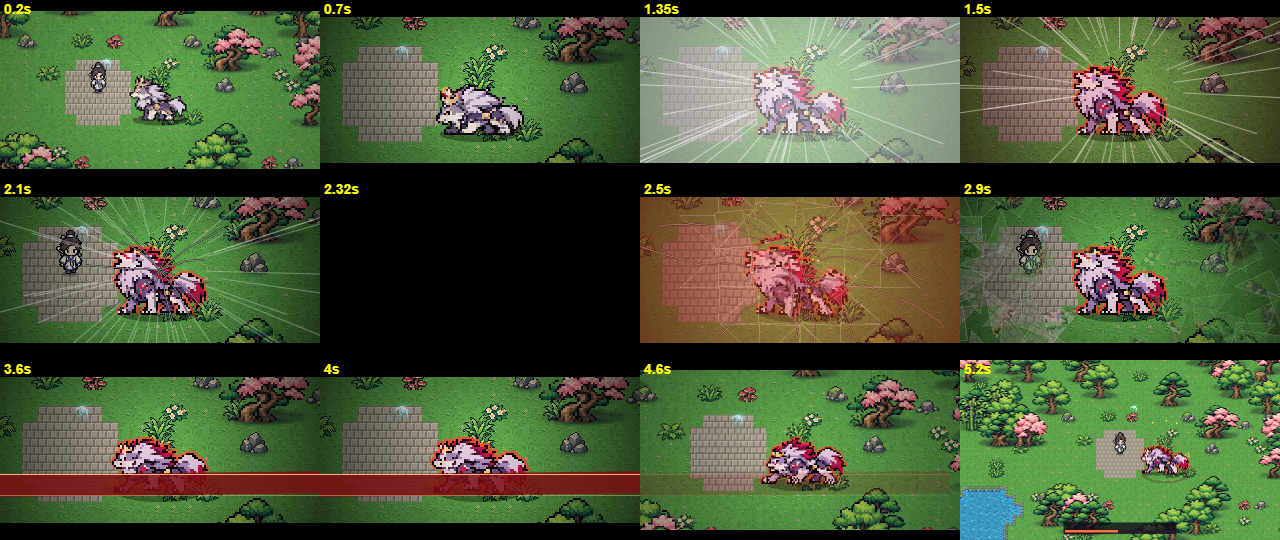
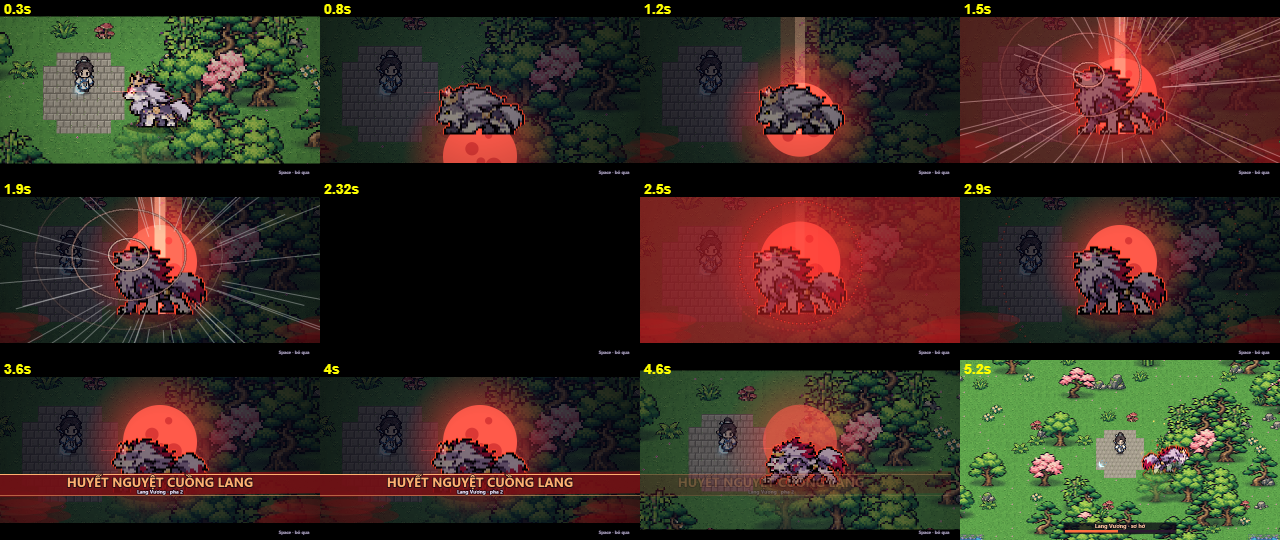
Cutscene pha 2 doi chu de dem - huyet nguyet - linh hon (vo kinh chi giu o cutscene Yeu Vuong xuat hien): Lang Vuong dem buong, trang mau dang, cot nguyet quang do, suong do, hu -> trang dap; Ma Quan 'Van Hon Quy Tong': linh hon bong ma xoay vao loi nguc -> van hon bao phat, bong Ma Quan truoc trang

diff --git a/src/render/render.js b/src/render/render.js
@@ -1631,7 +1631,7 @@ function drawWraithScreen(ctx, c, vis, time) {
 
 // ---------- (24/11) cutscene biến hình pha 2 (storyboard ChatGPT) ----------
 const P2_SHEET = (vis, n) => (n.startsWith('MINI2') ? vis.bossMini2 : n.startsWith('MINI_') ? vis.bosses : n.startsWith('FINAL2') ? vis.bossFinal2 : vis.bossFinal);
-let P2_EYES = [], P2_ZOOM = null, P2_CAM = { camX: 0, camY: 0 }, ZBUF = null, P2BUF = null;
+let P2_EYES = [], P2_ZOOM = null, P2_CAM = { camX: 0, camY: 0 }, ZBUF = null;
 const p2Map = (wx, wy) => {   // thế giới -> màn hình (tính cả zoom cận)
   const sx = wx - P2_CAM.camX, sy = wy - P2_CAM.camY;
   return P2_ZOOM ? [(sx - P2_ZOOM.sx) * P2_ZOOM.z, (sy - P2_ZOOM.sy) * P2_ZOOM.z] : [sx, sy];
@@ -1679,15 +1679,83 @@ function zoomScreen(ctx, c, camX, camY) {
   ctx.restore();
   return { sx, sy, z };
 }
+// linh hồn bóng ma: đầu tròn sáng lạnh, mắt rỗng, đuôi khói kéo theo hướng ngược chiều bay (dx, dy)
+function drawSoul(ctx, x, y, s, a, dx, dy) {
+  if (a <= 0) return;
+  const l = Math.hypot(dx, dy) || 1; dx /= l; dy /= l;
+  for (let j = 4; j >= 1; j--) { ctx.globalAlpha = a * (0.55 - j * 0.1); ctx.fillStyle = '#9ad8ff'; ctx.beginPath(); ctx.arc(x - dx * j * 3.2 * s, y - dy * j * 3.2 * s, (4.2 - j * 0.7) * s, 0, 6.283); ctx.fill(); }
+  ctx.globalAlpha = a * 0.3; ctx.fillStyle = '#bfe8ff'; ctx.beginPath(); ctx.arc(x, y, 7 * s, 0, 6.283); ctx.fill();
+  ctx.globalAlpha = a; ctx.fillStyle = '#eef8ff'; ctx.beginPath(); ctx.ellipse(x, y, 4 * s, 4.6 * s, 0, 0, 6.283); ctx.fill();
+  ctx.fillStyle = '#1a2440'; ctx.fillRect(Math.round(x - 2 * s), Math.round(y - s), Math.max(1, Math.round(s)), Math.max(2, Math.round(1.6 * s)));
+  ctx.fillRect(Math.round(x + s), Math.round(y - s), Math.max(1, Math.round(s)), Math.max(2, Math.round(1.6 * s)));
+  ctx.globalAlpha = 1;
+}
+// Lớp màn hình cutscene pha 2: đêm buông, trăng máu dâng sau lưng boss, nguyệt quang/sương đỏ (sói) hoặc linh hồn hút vào rồi bạo phát (ma),
+// boss vẽ lại ở trên thành bóng đen viền đỏ trước trăng, mắt đỏ, vệt tốc độ, chớp, chữ tên.
 function drawP2Screen(ctx, c, vis, time) {
-  const K = BOSS.DRAW_SCALE, [ox, oy] = p2Map(c.bx, c.by - 22 * K), fin = c.boss === 'FINAL';
+  const K = BOSS.DRAW_SCALE, z = P2_ZOOM ? P2_ZOOM.z : 1, [ox, oy] = p2Map(c.bx, c.by - 22 * K), [fx, fy] = p2Map(c.bx, c.by), fin = c.boss === 'FINAL';
   if (c.desat > 0) { ctx.globalCompositeOperation = 'saturation'; ctx.globalAlpha = c.desat; ctx.fillStyle = '#808080'; ctx.fillRect(0, 0, W, H); ctx.globalCompositeOperation = 'source-over'; ctx.globalAlpha = 1; }
-  if (c.vign > 0) {   // tối viền, sáng quanh boss
-    const g = ctx.createRadialGradient(ox, oy, 50, ox, oy, W * 0.62); g.addColorStop(0, 'rgba(0,0,0,0)'); g.addColorStop(1, 'rgba(0,0,0,0.9)');
+  if (c.night > 0) { ctx.globalAlpha = 0.72 * c.night; ctx.fillStyle = '#05071a'; ctx.fillRect(0, 0, W, H); ctx.globalAlpha = 1; }   // đêm buông
+  if (c.moon > 0 && c.moonFade > 0) {   // trăng máu dâng lên sau lưng boss
+    const pul = c.pulse >= 0 ? Math.sin(Math.PI * Math.min(1, c.pulse * 2)) : 0, R = c.moonR * (1 + 0.12 * pul), mx = ox, my = oy + c.moonY + (1 - c.moon) * 190;
+    const g = ctx.createRadialGradient(mx, my, R * 0.8, mx, my, R * 2.1); g.addColorStop(0, 'rgba(255,60,50,0.55)'); g.addColorStop(1, 'rgba(255,40,40,0)');
+    ctx.globalAlpha = c.moonFade; ctx.fillStyle = g; ctx.fillRect(mx - R * 2.2, my - R * 2.2, R * 4.4, R * 4.4);
+    ctx.fillStyle = c.moonCol[0]; ctx.beginPath(); ctx.arc(mx, my, R, 0, 6.283); ctx.fill();
+    ctx.fillStyle = c.moonCol[1];
+    for (const [a, d, r] of [[0.6, 0.45, 0.22], [2.2, 0.55, 0.15], [3.9, 0.3, 0.18], [5.1, 0.62, 0.1], [1.4, 0.15, 0.12]]) { ctx.globalAlpha = 0.45 * c.moonFade; ctx.beginPath(); ctx.arc(mx + Math.cos(a) * d * R, my + Math.sin(a) * d * R, r * R, 0, 6.283); ctx.fill(); }
+    if (c.pulse >= 0 && c.pulse < 1) { ctx.globalAlpha = 0.9 * (1 - c.pulse) * c.moonFade; tgRing(ctx, mx, my, R + c.pulse * 300, 96, fin ? '#ff6ab0' : '#ff4a3a', 3, 1); }   // nguyệt quang lan ra
+    ctx.globalAlpha = 1;
+  }
+  if (c.beam >= 0) {   // cột nguyệt quang đỏ chiếu xuống con sói
+    const a = Math.sin(Math.PI * c.beam), w = Math.round(34 * z * 0.5 + 10 * a);
+    ctx.globalCompositeOperation = 'lighter';
+    ctx.globalAlpha = 0.35 * a; ctx.fillStyle = '#ff3a2a'; ctx.fillRect(Math.round(fx - w), 0, w * 2, Math.round(fy));
+    ctx.globalAlpha = 0.45 * a; ctx.fillStyle = '#ffc0a0'; ctx.fillRect(Math.round(fx - w / 4), 0, Math.max(2, Math.round(w / 2)), Math.round(fy));
+    ctx.globalCompositeOperation = 'source-over'; ctx.globalAlpha = 1;
+  }
+  if (c.fog >= 0) {   // sương đỏ bò vào từ hai mép dưới
+    const a = Math.min(1, c.fog * 5) * Math.min(1, (1 - c.fog) * 6);
+    for (let i = 0; i < 14; i++) { const side = i % 2 ? 1 : -1, x = W / 2 + side * (W * 0.62 - c.fog * 120 - h01(i) * 60) + Math.sin(time + i) * 10, y = H - 20 - h01(i + 4) * 70;
+      ctx.globalAlpha = 0.28 * a; ctx.fillStyle = i % 3 ? '#8a0a14' : '#c02a2a'; ctx.beginPath(); ctx.ellipse(x, y, 70, 16, 0, 0, 6.283); ctx.fill(); }
+    ctx.globalAlpha = 1;
+  }
+  if (c.souls >= 0) {   // linh hồn trồi lên khắp nơi, xoáy vào lõi ngực Ma Quân và bị hút mất
+    let absorbed = 0;
+    for (let i = 0; i < 22; i++) {
+      const u = Math.max(0, Math.min(1, (c.soulsT - h01(i + 21) * 0.7) / 1.1)); if (u <= 0) continue;
+      const a0 = h01(i) * 6.283, R0 = 190 + h01(i + 3) * 120, e = u * u, r = R0 * (1 - e), ang = a0 + u * 2.6;
+      const x = ox + Math.cos(ang) * r, y = oy + Math.sin(ang) * r * 0.7 + 30 * (1 - u) * (1 - u);
+      if (u >= 1) { absorbed++; continue; }
+      drawSoul(ctx, x, y, 1.5, Math.min(1, u * 5) * (u > 0.85 ? (1 - u) / 0.15 : 1), ox - x, oy - y);
+    }
+    if (absorbed) { ctx.globalCompositeOperation = 'lighter'; ctx.globalAlpha = Math.min(0.6, absorbed * 0.04); ctx.fillStyle = '#ff6ab0'; ctx.beginPath(); ctx.arc(ox, oy, 10 + absorbed, 0, 6.283); ctx.fill(); ctx.globalCompositeOperation = 'source-over'; ctx.globalAlpha = 1; }
+  }
+  // boss vẽ lại trên lớp đêm/trăng: bóng đen viền đỏ trước vầng trăng
+  const sh = P2_SHEET(vis, c.pose) || vis.bosses;
+  if (sh && sh.meta.frames[c.pose] && (c.night > 0 || c.moon > 0)) {
+    const flip = c.boss === 'MINI' ? c.faceLeft : false, kk = K * z, rim = sh.rage || sh.glow;
+    ctx.globalAlpha = 0.85 * Math.max(c.night, c.moon * c.moonFade);
+    for (const [dx, dy] of [[-2, 0], [2, 0], [0, -2], [-1, -1], [1, -1]]) sheetFrame(ctx, sh, c.pose, fx + dx, fy + dy, flip, rim, kk);
+    ctx.globalAlpha = 1; ctx.filter = 'brightness(' + (0.55 + 0.45 * (1 - c.night)).toFixed(2) + ')';
+    sheetFrame(ctx, sh, c.pose, fx, fy, flip, sh.img, kk); ctx.filter = 'none';
+  }
+  if (c.burst >= 0) {   // vạn hồn bạo phát: linh hồn tỏa ra mọi hướng
+    for (let i = 0; i < 26; i++) {
+      const a = h01(i + 50) * 6.283, e = 1 - (1 - c.burst) * (1 - c.burst), r = 12 + e * (260 + h01(i + 7) * 140);
+      drawSoul(ctx, ox + Math.cos(a) * r, oy + Math.sin(a) * r * 0.75, 1.4 + c.burst, 1 - c.burst, Math.cos(a), Math.sin(a) * 0.75);
+    }
+  }
+  if (c.rings >= 0) {   // tiếng hú: vòng sóng âm từ đầu sói lan về phía trăng
+    const hx = fx + (c.faceLeft ? -1 : 1) * 16 * K * z, hy = fy - 30 * K * z;
+    for (let i = 0; i < 3; i++) { const k = (c.rings * 2.4 + i / 3) % 1, r = 10 + k * 220; ctx.globalAlpha = 0.8 * (1 - k); tgRing(ctx, hx, hy, r, Math.round(r * 2.2), '#ffd0c0', 3, 0.8); }
+    ctx.globalAlpha = 1;
+  }
+  if (c.vign > 0) {
+    const g = ctx.createRadialGradient(ox, oy, 70, ox, oy, W * 0.66); g.addColorStop(0, 'rgba(0,0,0,0)'); g.addColorStop(1, 'rgba(0,0,0,0.9)');
     ctx.globalAlpha = c.vign; ctx.fillStyle = g; ctx.fillRect(0, 0, W, H); ctx.globalAlpha = 1;
   }
   if (c.eyes > 0) {   // mắt đỏ rực + vệt sáng ngang kiểu anime
-    const z = P2_ZOOM ? P2_ZOOM.z : 1, pul = 0.7 + 0.3 * Math.sin(time * 9);
+    const pul = 0.7 + 0.3 * Math.sin(time * 9);
     ctx.globalCompositeOperation = 'lighter';
     for (const [wx, wy] of P2_EYES) {
       const [ex, ey] = p2Map(wx, wy);
@@ -1697,39 +1765,12 @@ function drawP2Screen(ctx, c, vis, time) {
     }
     ctx.globalCompositeOperation = 'source-over'; ctx.globalAlpha = 1;
   }
-  if (c.crack > 0 && c.shatter < 0) {   // vết nứt lan ra từ thân boss (ma: từ lõi ngực)
-    for (const pts of CRACKS) {
-      const n = Math.max(1, Math.ceil(c.crack * (pts.length - 1)));
-      for (const [col, wd] of [[fin ? '#ff3a8a' : '#000', 3], ['#fff', 1]]) {
-        ctx.strokeStyle = col; ctx.lineWidth = wd; ctx.globalAlpha = 0.9; ctx.beginPath(); ctx.moveTo(ox, oy);
-        for (let i = 1; i <= n; i++) ctx.lineTo(ox + pts[i][0], oy + pts[i][1]);
-        ctx.stroke();
-      }
-    }
-    ctx.globalAlpha = 1;
-  }
-  const cv = ctx.canvas, r = cv.width / W;
-  if (c.shatter < 0) {   // lưu khung hình hiện tại: lúc vỡ kính, mảnh của khung này bay đi để lộ ngoại hình mới
-    if (!P2BUF) P2BUF = document.createElement('canvas');
-    if (P2BUF.width !== cv.width || P2BUF.height !== cv.height) { P2BUF.width = cv.width; P2BUF.height = cv.height; }
-    const pg = P2BUF.getContext('2d'); pg.setTransform(1, 0, 0, 1, 0, 0); pg.clearRect(0, 0, cv.width, cv.height); pg.drawImage(cv, 0, 0);
-  } else if (P2BUF) {
-    for (const s of SHARDS) {
-      const k = Math.max(0, c.shatter - s.delay * 0.6);
-      const dx = s.vx * k * 1.4, dy = s.vy * k * 1.4 + 700 * k * k;
-      ctx.save(); ctx.globalAlpha = Math.max(0, 1 - k * 1.4);
-      ctx.translate(s.cx + dx, s.cy + dy); ctx.rotate(s.rot * k); ctx.translate(-s.cx, -s.cy);
-      ctx.beginPath(); ctx.moveTo(...s.p[0]); ctx.lineTo(...s.p[1]); ctx.lineTo(...s.p[2]); ctx.closePath(); ctx.clip();
-      ctx.drawImage(P2BUF, 0, 0, cv.width, cv.height, 0, 0, W, H); if (k > 0) { ctx.strokeStyle = fin ? '#ffc8f0' : '#fff'; ctx.lineWidth = 1; ctx.stroke(); }
-      ctx.restore();
-    }
-  }
   if (c.lines >= 0) {   // vệt tốc độ: tỏa ra (sói hú) / hội tụ vào ngực (ma)
     const seed = Math.floor(time * 20), out = c.linesDir === 'out';
     ctx.fillStyle = '#fff';
     for (let i = 0; i < 46; i++) {
       const a = h01(seed * 50 + i) * 6.283, r0 = 70 + h01(seed * 31 + i) * 60, len = 120 + h01(seed * 17 + i) * 260;
-      ctx.globalAlpha = (out ? 0.55 : 0.45) * (1 - c.lines * 0.5);
+      ctx.globalAlpha = (out ? 0.5 : 0.4) * (1 - c.lines * 0.5);
       ctx.save(); ctx.translate(ox, oy); ctx.rotate(a); ctx.fillRect(r0, -1, len, out ? 2 : 1); ctx.restore();
     }
     ctx.globalAlpha = 1;

diff --git a/src/core/config.js b/src/core/config.js
@@ -479,29 +479,31 @@ export const GACHA = {
   HISTORY: 50,
 };
 
-// (24/11) Cutscene biến hình chuyển pha 2 (storyboard ChatGPT đề xuất) — trận đứng yên như cutscene xuất hiện; lần 2 bỏ qua được.
-// T: IN zoom ×ZOOM xong · SWAP đổi sang sprite pha 2 (che bằng chớp) · BLACK màn đen 0,08 s (sói) · CRACK [đầu, cuối] vết nứt lan
-// · SHATTER vỡ kính (mảnh của khung trước bay đi, lộ khung sau) · TITLE chữ tên lớn · OUT zoom về ×1, về trận.
-// POSES: [mốc, tên khung] (MINI_* / MINI2_* / FINAL_* / FINAL2_*). FLASH: [mốc, dài, màu, độ đậm]. LINES: vệt tốc độ [đầu, cuối, 'out'|'in'].
+// (24/11) Cutscene biến hình chuyển pha 2 — trận đứng yên như cutscene xuất hiện; lần 2 bỏ qua được (nhảy tới SKIP).
+// Người phát triển: vỡ kính chỉ giữ ở cutscene Yêu Vương xuất hiện (dùng nhiều mất ấn tượng). Pha 2 theo chủ đề ĐÊM — HUYẾT NGUYỆT — LINH HỒN:
+//   Lang Vương "Huyết Nguyệt": đêm buông, trăng máu dâng sau lưng, cột nguyệt quang đỏ chiếu xuống, sương đỏ, hú vang -> trăng đập, sóng nguyệt quang.
+//   Ma Quân "Vạn Hồn Quy Tông": đêm buông, trăng máu dâng, linh hồn bóng ma trồi lên xoáy vào lõi ngực -> vạn hồn bạo phát, bóng Ma Quân trước trăng.
+// T: IN zoom xong · NIGHT [đầu, cuối] đêm buông · MOON [đầu, cuối] trăng dâng · SWAP đổi sprite (che bằng chớp) · REVEAL lộ ngoại hình pha 2
+// · TITLE chữ tên · OUT về trận. BEAM/FOG/RINGS (sói), SOULS/BURST (ma): [đầu, cuối]. POSES: [mốc, tên khung]. FLASH: [mốc, dài, màu, độ đậm].
 CUTSCENE.MINI_P2 = {
   STYLE: 'p2', BOSS: 'MINI', TITLE: 'HUYẾT NGUYỆT CUỒNG LANG', SUB: 'Lang Vương · pha 2', TITLE_COL: '#ffb070', BAND: '#7a0f14',
-  DUR: 5.0, ZOOM: 2, VIGN: 0.85, DESAT: 0, TILT: 0, SKIP: 'SHATTER',
-  T: { IN: 0.5, SWAP: 1.3, BLACK: 2.3, CRACK: [2.0, 2.3], SHATTER: 2.38, TITLE: 3.3, OUT: 4.3 },
+  DUR: 5.0, ZOOM: 2, VIGN: 0.6, DESAT: 0, SKIP: 'REVEAL', MOON_COL: ['#e8323a', '#8a0a14'], MOON_R: 74, MOON_Y: -16,
+  T: { IN: 0.5, NIGHT: [0.1, 0.9], MOON: [0.5, 1.8], SWAP: 1.3, BLACK: 2.3, REVEAL: 2.38, TITLE: 3.3, OUT: 4.3 },
   POSES: [[0, 'MINI_walk0'], [0.5, 'MINI_atk'], [1.3, 'MINI2_howl'], [3.3, 'MINI2_walk0'], [4.4, 'MINI2_atk']],
-  FLASH: [[1.3, 0.12, '#ffffff', 0.9], [1.42, 0.1, '#ff2a2a', 0.6], [2.38, 0.25, '#ff4a2a', 0.7]],
-  LINES: [1.3, 2.3, 'out'], SMOKE: [0.5, 1.3, '#a01020'], BOLTS: null,
-  EVENTS: [[0.02, { type: 'sfx', name: 'thud' }], [0.6, { type: 'sfx', name: 'thud' }], [0.6, { type: 'shake', t: 0.5 }],
-    [1.3, { type: 'sfx', name: 'howl' }], [1.3, { type: 'shake', t: 0.9 }], [2.38, { type: 'sfx', name: 'shatter' }], [2.38, { type: 'sfx', name: 'land' }],
-    [2.38, { type: 'shake', t: 0.6 }], [2.38, { type: 'boom', r: 70, color: '#ff7a3a' }], [3.3, { type: 'sfx', name: 'bossPhase' }]],
+  FLASH: [[1.3, 0.12, '#ffffff', 0.9], [1.42, 0.1, '#ff2a2a', 0.6], [2.38, 0.3, '#ff2a2a', 0.75]],
+  LINES: [1.3, 2.3, 'out'], BEAM: [0.9, 2.6], FOG: [0.4, 4.6], RINGS: [1.3, 2.3], PULSE: 2.38, SOULS: null, BURST: null,
+  EVENTS: [[0.02, { type: 'sfx', name: 'thud' }], [0.6, { type: 'sfx', name: 'thud' }], [0.6, { type: 'shake', t: 0.4 }],
+    [1.3, { type: 'sfx', name: 'howl' }], [1.3, { type: 'shake', t: 0.9 }], [2.38, { type: 'sfx', name: 'land' }], [2.38, { type: 'sfx', name: 'rumble' }],
+    [2.38, { type: 'shake', t: 0.6 }], [2.38, { type: 'boom', r: 70, color: '#ff3a2a' }], [3.3, { type: 'sfx', name: 'bossPhase' }]],
 };
 CUTSCENE.FINAL_P2 = {
-  STYLE: 'p2', BOSS: 'FINAL', TITLE: 'HUYẾT LÔI MA QUÂN', SUB: 'Ma Ảnh Yêu Vương · chân thân', TITLE_COL: '#ff9ad6', BAND: '#3a0a4a',
-  DUR: 5.5, ZOOM: 2, VIGN: 0.85, DESAT: 0.85, TILT: 2, SKIP: 'SHATTER',
-  T: { IN: 0.6, SWAP: 1.4, BLACK: 0, CRACK: [0.6, 2.4], SHATTER: 2.4, TITLE: 3.5, OUT: 4.6 },
-  POSES: [[0, 'FINAL_walk0'], [0.6, 'FINAL_atk'], [1.4, 'FINAL2_roar'], [2.4, 'FINAL2_roar'], [3.5, 'FINAL2_atk'], [4.7, 'FINAL2_walk0']],
-  FLASH: [[1.4, 0.08, '#000000', 0.9], [1.48, 0.15, '#ff2a6a', 0.7], [2.4, 0.25, '#e070ff', 0.7]],
-  LINES: [2.4, 3.5, 'in'], SMOKE: [0.6, 1.4, '#6a24a0'], BOLTS: [3.5, 4.6],
+  STYLE: 'p2', BOSS: 'FINAL', TITLE: 'HUYẾT LÔI MA QUÂN', SUB: 'Vạn Hồn Quy Tông · chân thân', TITLE_COL: '#ff9ad6', BAND: '#3a0a4a',
+  DUR: 5.5, ZOOM: 2, VIGN: 0.6, DESAT: 0.7, SKIP: 'REVEAL', MOON_COL: ['#d8283a', '#6a0814'], MOON_R: 108, MOON_Y: -58,   // to + cao hơn: cánh Ma Quân không che hết trăng
+  T: { IN: 0.6, NIGHT: [0, 0.8], MOON: [0.5, 2.0], SWAP: 1.4, BLACK: 0, REVEAL: 2.4, TITLE: 3.5, OUT: 4.6 },
+  POSES: [[0, 'FINAL_walk0'], [0.6, 'FINAL_atk'], [1.4, 'FINAL2_roar'], [3.5, 'FINAL2_atk'], [4.7, 'FINAL2_walk0']],
+  FLASH: [[1.4, 0.08, '#000000', 0.9], [1.48, 0.18, '#ff2a4a', 0.65], [2.4, 0.25, '#ffd0f0', 0.6]],
+  LINES: [1.6, 2.4, 'in'], BEAM: null, FOG: null, RINGS: null, PULSE: 2.4, SOULS: [0.6, 2.4], BURST: [2.4, 3.6],
   EVENTS: [[0.05, { type: 'sfx', name: 'rumble' }], [0.3, { type: 'sfx', name: 'eyes' }], [0.6, { type: 'shake', t: 0.4 }],
-    [1.4, { type: 'sfx', name: 'roar' }], [1.4, { type: 'shake', t: 0.6 }], [2.4, { type: 'sfx', name: 'shatter' }], [2.4, { type: 'shake', t: 0.7 }],
-    [2.4, { type: 'boom', r: 80, color: '#e070ff' }], [3.5, { type: 'sfx', name: 'bossPhase' }]],
+    [1.4, { type: 'sfx', name: 'roar' }], [1.4, { type: 'shake', t: 0.6 }], [2.4, { type: 'sfx', name: 'bossPhase' }], [2.4, { type: 'shake', t: 0.7 }],
+    [2.4, { type: 'boom', r: 80, color: '#ff4a8a' }], [2.45, { type: 'sfx', name: 'eyes' }], [3.5, { type: 'sfx', name: 'rumble' }]],
 };

diff --git a/tests/cutscene.test.js b/tests/cutscene.test.js
@@ -137,18 +137,19 @@ test('Yêu Vương: mỗi sự kiện phát đúng 1 lần; bỏ qua (lần 2) n
 
 // ---------- (24/11) cutscene biến hình pha 2 (storyboard ChatGPT) ----------
 for (const kind of ['MINI_P2', 'FINAL_P2']) {
-  test(`${kind}: zoom cận rồi về ×1, đổi sprite pha 1 -> pha 2 đúng 1 lần (che bằng chớp), vỡ kính, chữ tên; mỗi sự kiện 1 lần`, () => {
+  test(`${kind}: zoom cận rồi về ×1, đêm buông + trăng máu, đổi sprite pha 1 -> pha 2 đúng 1 lần (che bằng chớp), chữ tên; mỗi sự kiện 1 lần`, () => {
     const S = CUTSCENE[kind], T = S.T, b1 = S.BOSS + '_', b2 = S.BOSS + '2_';
     const c = createCutscene(kind, { x: 500, y: 400 }, { x: 300, y: 380 });
     let s = cutsceneState(c);
     assert.ok(s.style === 'p2' && s.zoom === 1 && s.pose.startsWith(b1));
     const ev = [], poses = [];
-    let maxZoom = 0, sawTitle = false, sawShatter = false, swapFlash = false, prev = s;
+    let maxZoom = 0, sawTitle = false, sawMoon = false, swapFlash = false, prev = s;
     while (!c.done) {
       ev.push(...stepCutscene(c, DT)); s = cutsceneState(c);
       if (poses[poses.length - 1] !== s.pose) poses.push(s.pose);
       if (prev.pose.startsWith(b1) && s.pose.startsWith(b2)) swapFlash = !!s.flash || !!s.black;
-      maxZoom = Math.max(maxZoom, s.zoom); sawTitle ||= s.title > 0.99; sawShatter ||= s.shatter >= 0;
+      maxZoom = Math.max(maxZoom, s.zoom); sawTitle ||= s.title > 0.99; sawMoon ||= s.moon > 0.99;
+      assert.ok(s.shatter < 0 && !s.crack, '(24/11) pha 2 không dùng vỡ kính — chỉ giữ ở cutscene Yêu Vương xuất hiện');
       assert.ok(Math.abs(s.zoom - prev.zoom) < 0.1, 'zoom không giật');
       prev = s;
     }
@@ -156,15 +157,15 @@ for (const kind of ['MINI_P2', 'FINAL_P2']) {
     const swaps = poses.filter((p, i) => i && poses[i - 1].startsWith(b1) && p.startsWith(b2)).length;
     assert.equal(swaps, 1, poses.join(','));
     assert.ok(swapFlash, 'đổi sprite phải có chớp che');
-    assert.ok(sawTitle && sawShatter);
+    assert.ok(sawTitle && sawMoon, 'có trăng máu dâng + chữ tên');
     assert.ok(s.zoom === 1 && s.letter < 0.01 && s.title < 0.01 && Math.abs(s.focusX - 300) < 1, 'về trận');
     assert.equal(ev.length, S.EVENTS.length);
   });
-  test(`${kind}: lần đầu không bỏ qua được; lần sau bỏ qua -> nhảy tới lúc vỡ kính, không phát lại tiếng gầm/hú`, () => {
+  test(`${kind}: lần đầu không bỏ qua được; lần sau bỏ qua -> nhảy tới lúc lộ ngoại hình mới, không phát lại tiếng gầm/hú`, () => {
     const S = CUTSCENE[kind];
     const a = createCutscene(kind, { x: 0, y: 0 }, { x: 0, y: 0 }); stepCutscene(a, 0.3); assert.equal(skipCutscene(a), false);
     const b = createCutscene(kind, { x: 0, y: 0 }, { x: 0, y: 0 }, true); stepCutscene(b, 0.3);
-    assert.equal(skipCutscene(b), true); assert.ok(Math.abs(b.t - S.T.SHATTER) < 1e-9);
+    assert.equal(skipCutscene(b), true); assert.ok(Math.abs(b.t - S.T[S.SKIP]) < 1e-9);
     const ev = run(b, 30);
     assert.ok(!ev.some(e => e.name === 'howl' || e.name === 'roar'));
     assert.ok(cutsceneState(b).pose.startsWith(S.BOSS + '2_'), 'bỏ qua vẫn kết thúc ở ngoại hình pha 2');

diff --git a/src/systems/cutscene.js b/src/systems/cutscene.js
@@ -145,12 +145,14 @@ function p2State(c) {
   let flash = null;
   for (const [at, d, col, a] of S.FLASH) if (t >= at && t < at + d) flash = { col, a: a * (1 - (t - at) / d) };
   const seg2 = r => (r && t >= r[0] && t < r[1] ? seg(t, r[0], r[1]) : -1);
-  const shatter = t >= T.SHATTER && t < T.SHATTER + 1 ? seg(t, T.SHATTER, T.SHATTER + 1) : -1;
+  const fadeOut = 1 - ease(seg(t, T.OUT, c.dur));
   return { style: 'p2', kind: c.kind, boss: S.BOSS, faceLeft: c.px < c.bx, focusX: lerp(c.px, c.bx, k), focusY: lerp(c.py, c.by - 20, k), zoom: 1 + (S.ZOOM - 1) * k,
     letter: ease(seg(t, 0, 0.35)) * (1 - zout), pose, flash, black: T.BLACK && t >= T.BLACK && t < T.BLACK + 0.08 ? 1 : 0,
-    crack: t < T.SHATTER ? ease(seg(t, T.CRACK[0], T.CRACK[1])) : 0, shatter, lines: seg2(S.LINES), linesDir: S.LINES && S.LINES[2],
-    smoke: seg2(S.SMOKE), smokeCol: S.SMOKE && S.SMOKE[2], bolts: seg2(S.BOLTS), vign: S.VIGN * k, desat: S.DESAT * zin * (1 - ease(seg(t, T.SWAP, T.SWAP + 0.4))),
-    tilt: S.TILT && shatter >= 0 && shatter < 0.6 ? S.TILT * Math.sin(Math.PI * shatter / 0.6) : 0,
+    night: ease(seg(t, T.NIGHT[0], T.NIGHT[1])) * fadeOut, moon: ease(seg(t, T.MOON[0], T.MOON[1])), moonFade: fadeOut, moonCol: S.MOON_COL, moonR: S.MOON_R || 74, moonY: S.MOON_Y || -16,
+    pulse: t >= S.PULSE ? seg(t, S.PULSE, S.PULSE + 0.9) : -1, beam: seg2(S.BEAM), fog: seg2(S.FOG), rings: seg2(S.RINGS),
+    souls: seg2(S.SOULS), soulsT: S.SOULS ? t - S.SOULS[0] : -1, burst: seg2(S.BURST),
+    lines: seg2(S.LINES), linesDir: S.LINES && S.LINES[2], smoke: -1, bolts: -1, crack: 0, shatter: -1, tilt: 0,
+    vign: S.VIGN * k, desat: S.DESAT * zin * (1 - ease(seg(t, T.SWAP, T.SWAP + 0.4))),
     title: ease(seg(t, T.TITLE, T.TITLE + 0.25)) * (1 - ease(seg(t, T.OUT, T.OUT + 0.45))), titleK: t >= T.TITLE ? t - T.TITLE : -1, titleOut: seg(t, T.OUT, T.OUT + 0.45),
     eyes: 1 - zout, bx: c.bx, by: c.by, skippable: c.skippable, title_: S.TITLE, sub: S.SUB, titleCol: S.TITLE_COL, band: S.BAND,
     alt: -1, cliff: null, howl: -1, name: 0, fade: 0, line: '' };
